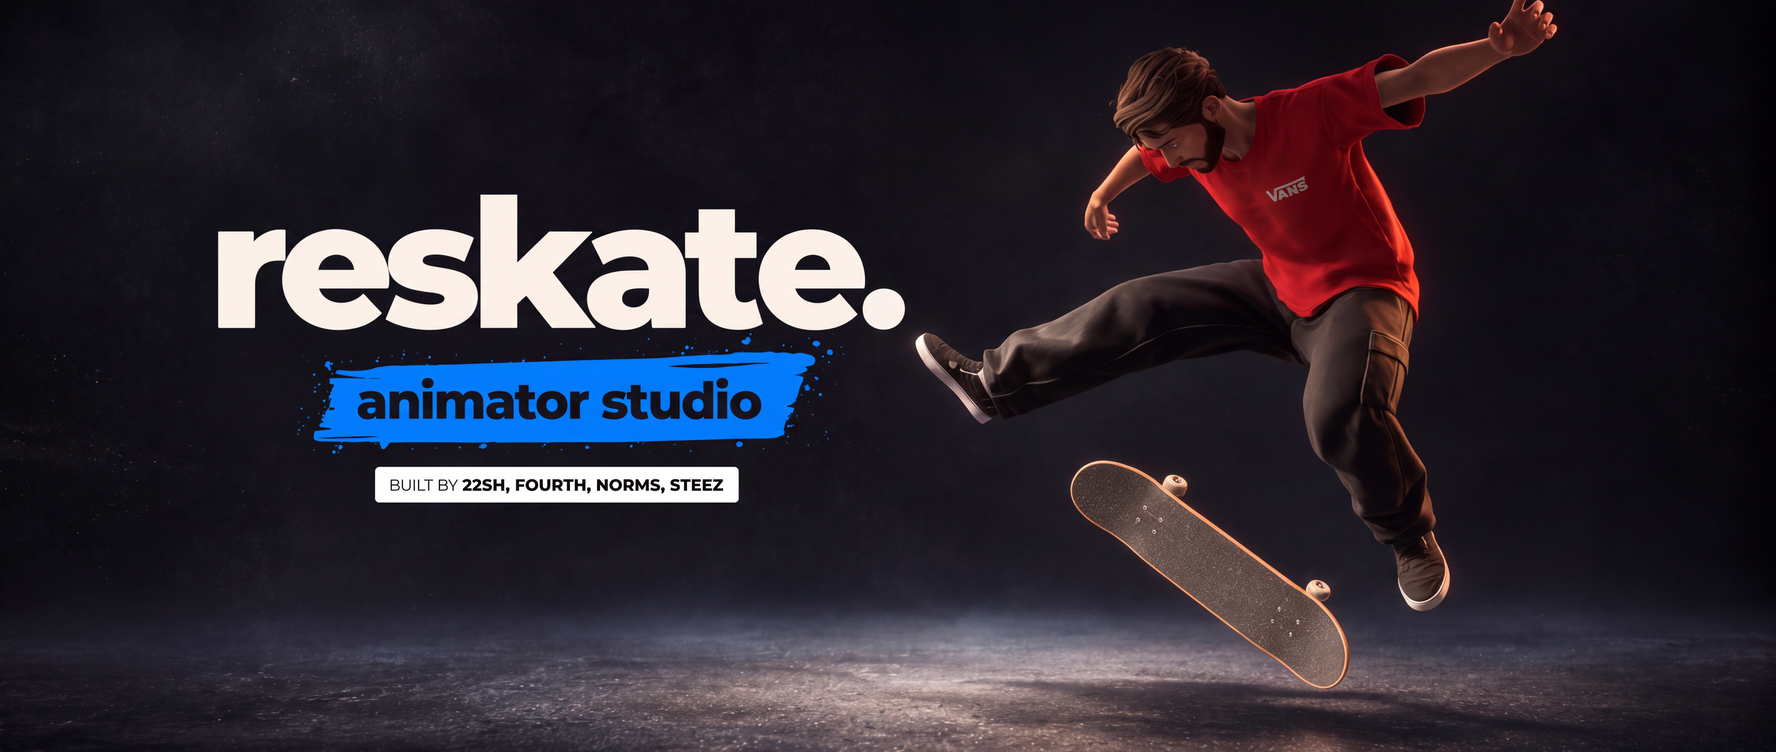
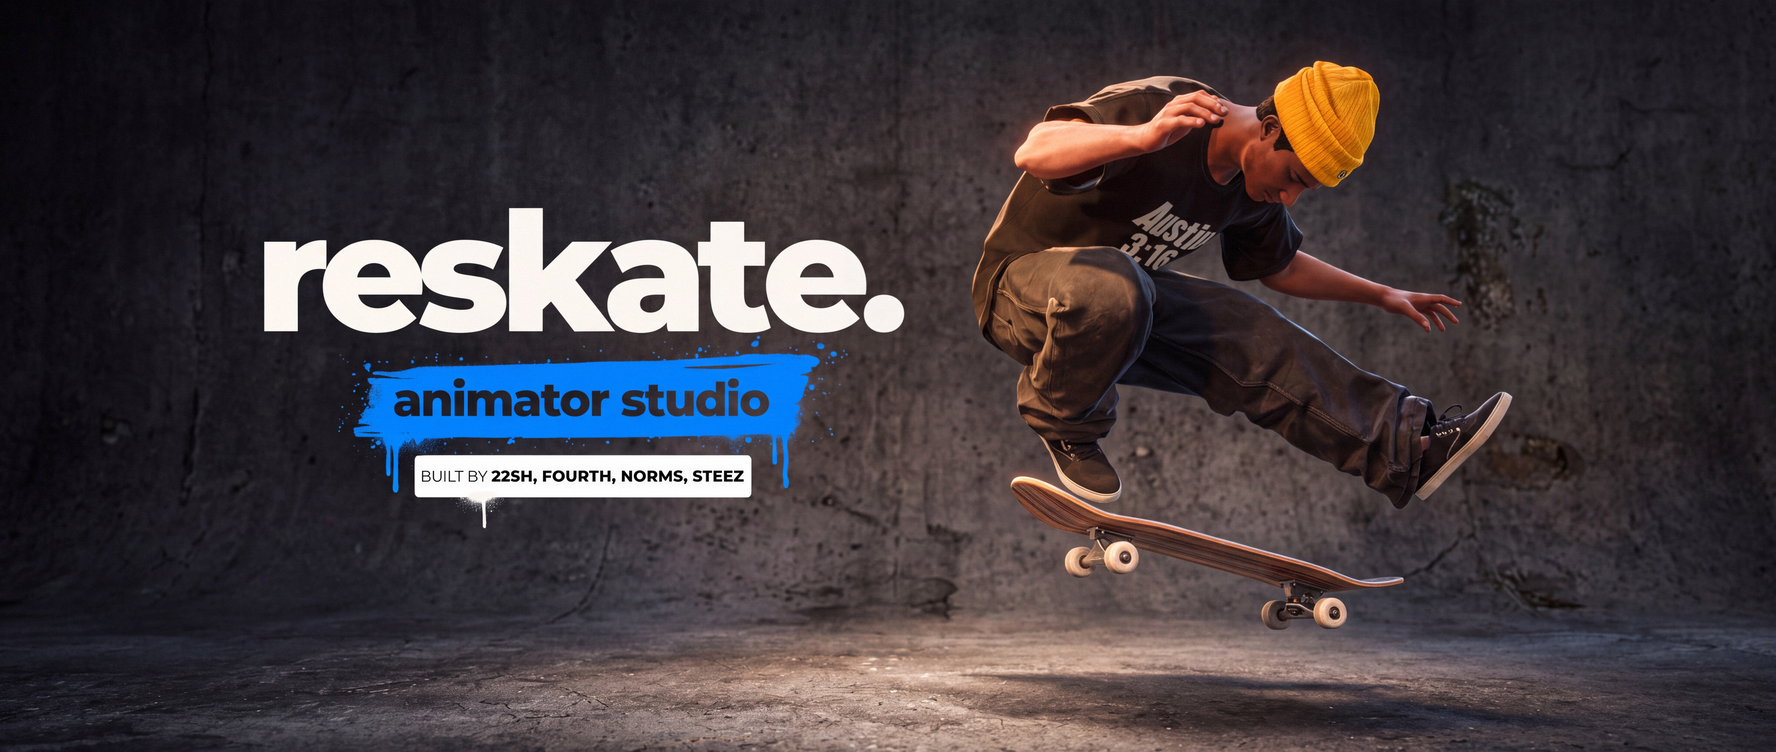
Animator Studio: fixes from the final review, and the new loading picture
- Select all keys leaves the brackets' own keys out, so a dragged selection
  moves again; a group of keys inside the brackets stays inside them.
- A channel's value box keeps the number asked for while it is dragged or
  typed (an angle read back from a turn can come out another way round past
  90 degrees), keys the frame the playhead is on, and takes its undo step on
  the first change. "Held by Joint limits" compares the turns themselves.
- Choosing from a channel row no longer scrolls the rows from under the mouse.
- A click near a bracket without dragging it no longer makes an empty undo
  step; a click takes the nearest key only when two are in reach.
- The numbered views (1-5, 0) stop the camera travelling with the skater.
- JOINTS finds the chosen joint's row for the keys and the pad too, so Enter
  (A) keys it after a tab switch or a joint chosen on the skater; the "Hide
  the menu" row is gone (Tab still hides it).
- Smoothing every joint does not count the brackets' own keys; pack import
  compares names the way Windows does; a failed save removes its half-written
  files.
- The built-in loading picture is the new "Animator Studio backdrop 2" art.

diff --git a/Extension/UI/Overlay/animation_studio_overlay.cpp b/Extension/UI/Overlay/animation_studio_overlay.cpp
@@ -59,6 +59,14 @@ struct Ui {
     std::vector<std::uint16_t> opened;
     std::uint16_t rows_reveal{0xffff};  // a joint just opened: the timeline scrolls to show its channels
     double held_said_until{};           // Joint limits holding an edit back was said until then
+    struct ChannelField {               // a channel's value box while it is dragged or typed into
+        std::uint16_t joint{0xffff};
+        int channel{-1};
+        bool active{}, began{};
+        float value{};                  // the number asked for (an angle read back can come out another way)
+        studio::Offset base;            // the edit it started from
+    } channel_field;
+    bool bracket_began{};               // the held bracket has moved: its undo step is taken
     std::uint16_t channel_joint{0xffff};
     int channel{-1};                    // the channel row chosen last (-1 none)
     struct ChannelDrag {
@@ -181,19 +189,27 @@ bool is_picked(std::uint16_t joint, float time) {
 void pick_all(const studio::View& v) {
     auto& u = ui();
     u.picked.clear();
+    // The keys a bracket puts on every joint are the brackets' own: they are not chosen (as a box leaves them).
+    const float end = v.bracket_end < 0 ? v.duration : v.bracket_end;
     for (const auto& t : v.tracks)
         if (!t.locked)
-            for (const auto& key : t.keys) u.picked.emplace_back(t.joint, key.time);
+            for (const auto& key : t.keys)
+                if (std::abs(key.time - v.bracket_start) >= 0.5f / fps && std::abs(key.time - end) >= 0.5f / fps)
+                    u.picked.emplace_back(t.joint, key.time);
     say(u.picked.empty() ? "There are no keys yet." : std::to_string(u.picked.size()) + " keys chosen: drag one to move them all, Delete takes them off.");
 }
 // The chosen keys moved by `by` seconds, as one undo step: the far end first, so none lands on another.
-void move_picked(float by, float duration) {
+void move_picked(float by, const studio::View& v) {
     auto& u = ui();
     if (u.picked.empty()) return;
-    // The group moves as one and stops at the ends of the clip, so no key is pushed onto another there.
+    // The group moves as one. Inside the brackets it stays inside them (a key never lands on a bracket's own
+    // key), outside them it stops at the ends of the clip.
     float first = u.picked.front().second, last = first;
     for (const auto& [joint, time] : u.picked) first = std::min(first, time), last = std::max(last, time);
-    by = std::clamp(by, -first, std::max(0.0f, duration - last));
+    const float end = v.bracket_end < 0 ? v.duration : v.bracket_end;
+    const float low = first > v.bracket_start + 0.5f / fps ? v.bracket_start + 1 / fps : 0.0f;
+    const float high = last < end - 0.5f / fps ? end - 1 / fps : v.duration;
+    by = std::clamp(by, std::min(0.0f, low - first), std::max(0.0f, high - last));
     if (std::abs(by) < 1e-4f) return;
     auto keys = u.picked;
     std::sort(keys.begin(), keys.end(), [by](const auto& a, const auto& b) { return by > 0 ? a.second > b.second : a.second < b.second; });
@@ -308,11 +324,13 @@ bool channels_open(std::uint16_t joint) {
 }
 // A channel edit that Joint limits held back is said, once in a while, so a number that will not move is
 // explained rather than looking broken.
-void note_held(const studio::View& v, std::uint16_t joint, int channel, float wanted) {
+void note_held(const studio::View& v, std::uint16_t joint, const studio::Offset& requested) {
     if (!v.limits) return;
-    float apart = studio::channel_value(studio::offset_of(joint), channel) - wanted;
-    if (channel < 3) apart = std::remainder(apart, 360.0f);
-    if (std::abs(apart) <= (channel < 3 ? 0.5f : 0.002f)) return;
+    // The turns compared, not one angle read back from them (that can come out another way round).
+    const auto got = studio::offset_of(joint).rotation;
+    const float d = std::abs(got[0] * requested.rotation[0] + got[1] * requested.rotation[1] + got[2] * requested.rotation[2] +
+                             got[3] * requested.rotation[3]);
+    if (2 * std::acos(std::clamp(d, 0.0f, 1.0f)) * 57.29578f <= 0.5f) return;
     auto& u = ui();
     if (ImGui::GetTime() < u.held_said_until) return;
     u.held_said_until = ImGui::GetTime() + 4;
@@ -1184,6 +1202,18 @@ Row info_row(std::string label, std::string value, std::string about) {
 }
 // What can be chosen in a list: anything but a heading.
 bool selectable(const Row& row) noexcept { return static_cast<bool>(row.act) || row.info; }
+// JOINTS: the highlight follows the chosen joint - on a joint's row, or when a joint was chosen elsewhere (a
+// dot on the skater, the timeline) - and stays on an option row otherwise. Used by the list, the keys and the pad.
+int joints_row(const std::vector<Row>& rows) {
+    auto& u = ui();
+    const bool joint_changed = u.joint_row_for != u.selected;
+    u.joint_row_for = u.selected;
+    const bool on_joint = u.row < 0 || u.row >= static_cast<int>(rows.size()) || rows[static_cast<std::size_t>(u.row)].joint;
+    if (on_joint || joint_changed)
+        for (std::size_t i = 0; i < rows.size(); ++i)
+            if (rows[i].joint && *rows[i].joint == u.selected) return static_cast<int>(i);
+    return u.row;
+}
 // ---- the shots ------------------------------------------------------------------------------------
 // Set camera angles to work in, the ones a skate part is actually shot from. Each is the orbit the studio
 // already drives - turned and tilted about the skater, at a distance - and what it holds in the middle, so
@@ -1807,8 +1837,6 @@ std::vector<Row> rows_of(Tab tab, const studio::View& v) {
         rows.push_back({"Hide everything", "", "Takes the whole studio off the screen - tabs, timeline, dots and all - leaving the "
                         "skater and the room, for filming a trick or taking a picture of it. Key: H brings it back.",
                         [] { ui().hide_ui = true; say("Hidden. H brings it back."); }});
-        rows.push_back({"Hide the menu", "", "Takes this menu away to give the skater more room; the timeline stays. Key: Tab "
-                        "brings it back.", [] { ui().menu_hidden = true; say("Menu hidden. Tab brings it back."); }});
         rows.push_back({"Stance", v.stance_choice != 0 ? (v.stance_choice == 1 ? "regular" : "goofy")
                                   : v.game_stance == 0 ? (v.showing_goofy ? "the game's (not set: goofy)" : "the game's (not set: regular)")
                                   : v.showing_goofy ? "the game's (goofy)" : "the game's (regular)",
@@ -1890,6 +1918,7 @@ void move_row(const studio::View& v, int delta) {
     auto& u = ui();
     const auto rows = rows_of(static_cast<Tab>(u.tab), v);
     const int count = static_cast<int>(rows.size());
+    if (static_cast<Tab>(u.tab) == Tab::joints) u.row = joints_row(rows);
     // Headings are stepped over. In JOINTS going onto a joint's row chooses that joint.
     int at = std::clamp(u.row, 0, std::max(0, count - 1));
     for (int step = 0; step < count; ++step) {
@@ -1903,6 +1932,7 @@ void move_row(const studio::View& v, int delta) {
 void activate_row(const studio::View& v) {
     auto& u = ui();
     auto rows = rows_of(static_cast<Tab>(u.tab), v);
+    if (static_cast<Tab>(u.tab) == Tab::joints) u.row = joints_row(rows);
     // On a joint's row, Enter (A) keys that joint on this frame.
     if (u.row >= 0 && u.row < static_cast<int>(rows.size()) && rows[static_cast<std::size_t>(u.row)].joint) {
         key_joint();
@@ -2125,17 +2155,7 @@ void list(ImDrawList* d, const Fonts& f, const studio::View& v, ImVec2 at, ImVec
     const float k = f.k, row_h = 50 * k, gap = 8 * k;
     const auto tab = static_cast<Tab>(u.tab);
     const auto rows = rows_of(tab, v);
-    int chosen = u.row;
-    if (tab == Tab::joints) {
-        // On the joints the highlight follows the chosen joint, and so does a joint chosen on the skater even
-        // when an option row was highlighted.
-        const bool joint_changed = u.joint_row_for != u.selected;
-        u.joint_row_for = u.selected;
-        const bool on_joint = u.row < 0 || u.row >= static_cast<int>(rows.size()) || rows[static_cast<std::size_t>(u.row)].joint;
-        if (on_joint || joint_changed)
-            for (std::size_t i = 0; i < rows.size(); ++i)
-                if (rows[i].joint && *rows[i].joint == u.selected) chosen = static_cast<int>(i);
-    }
+    int chosen = tab == Tab::joints ? joints_row(rows) : u.row;
     chosen = std::clamp(chosen, 0, std::max(0, static_cast<int>(rows.size()) - 1));
     // A heading cannot be chosen: the first row under it that does something is.
     if (!rows.empty() && !selectable(rows[static_cast<std::size_t>(chosen)]))
@@ -2593,7 +2613,10 @@ void timeline(ImDrawList* d, const Fonts& f, const studio::View& v, ImVec2 at, I
             if (track) for (const auto& kv : track->keys) curve.keys.push_back({kv.time, kv.rotation, kv.offset, kv.ease});
             // Its value on this frame, to drag or type (a double-click types).
             {
-                float value = studio::channel_value(studio::evaluate(curve, v.time), c);
+                const float frame_time = std::round(v.time * fps) / fps; // the frame a change is keyed on
+                auto& field = u.channel_field;
+                const bool this_field = field.joint == joint.index && field.channel == c;
+                float value = this_field && field.active ? field.value : studio::channel_value(studio::evaluate(curve, frame_time), c);
                 ImGui::PushID(joint.index);
                 ImGui::PushID(100 + c);
                 ImGui::PushStyleColor(ImGuiCol_Text, locked ? faint : white);
@@ -2606,14 +2629,29 @@ void timeline(ImDrawList* d, const Fonts& f, const studio::View& v, ImVec2 at, I
                 ImGui::SetNextItemWidth(88 * k);
                 const bool changed = ImGui::DragFloat("##value", &value, turn ? 0.25f : 0.002f, 0, 0, turn ? "%.1f" : "%.3f");
                 if (ImGui::IsItemActivated() && !locked) {
-                    studio::begin_change();
+                    field = {};
+                    field.joint = joint.index;
+                    field.channel = c;
+                    field.active = true;
+                    field.base = studio::evaluate(curve, frame_time);
+                    field.value = value;
                     u.selected = joint.index;
+                    u.rows_followed = joint.index; // chosen here: the rows stay where they are
                     u.channel_joint = joint.index;
                     u.channel = c;
                 }
-                if (changed && !locked) {
-                    studio::set_offset(joint.index, studio::with_channel(studio::evaluate(curve, v.time), c, value));
-                    note_held(v, joint.index, c, value);
+                if (field.joint == joint.index && field.channel == c) {
+                    if (ImGui::IsItemActive()) field.value = value;
+                    else field.active = false;
+                    if (changed && !locked) {
+                        if (!field.began) { // one undo step, taken when it first changes something
+                            studio::begin_change();
+                            field.began = true;
+                        }
+                        const auto requested = studio::with_channel(field.base, c, value);
+                        studio::set_offset(joint.index, requested);
+                        note_held(v, joint.index, requested);
+                    }
                 }
                 ImGui::PopFont();
                 ImGui::PopStyleVar();
@@ -2630,6 +2668,16 @@ void timeline(ImDrawList* d, const Fonts& f, const studio::View& v, ImVec2 at, I
             ImGui::PopID();
             ImGui::PopID();
             bool on_key = false;
+            std::optional<float> nearest; // the key a click takes: the nearest in reach
+            if (lane_clicked && track) {
+                float reach = 8 * k;
+                for (const auto& key : track->keys)
+                    if (!bracket_key(key.time))
+                        if (const float apart = std::abs(ImGui::GetIO().MousePos.x - x_of(key.time)); apart < reach) {
+                            reach = apart;
+                            nearest = key.time;
+                        }
+            }
             if (!curve.keys.empty()) {
                 d->PushClipRect(ImVec2(ruler_left, std::max(rows_top, y)), ImVec2(ruler_right, std::min(at.y + size.y, y + ch_h)), true);
                 // The curve, sampled across the lane; angles unwrapped so a turn past 180 does not jump.
@@ -2679,7 +2727,7 @@ void timeline(ImDrawList* d, const Fonts& f, const studio::View& v, ImVec2 at, I
                     drawn_keys().push_back({joint.index, key.time, cpos});
                     if ((current && focused) || in_pick) key_mark(d, cpos, 9 * k, in_pick ? blue : blue_dim, round_key(key));
                     key_mark(d, cpos, (close_to ? 7.5f : 6) * k, track->hidden ? faint : in_pick || (current && focused) ? blue_light : white, round_key(key));
-                    if (!close_to || !lane_clicked || locked) continue;
+                    if (!lane_clicked || locked || !nearest || std::abs(key.time - *nearest) > 1e-4f) continue;
                     on_key = true;
                     if (ImGui::GetIO().KeyShift) {
                         auto& picked = u.picked;
@@ -2702,6 +2750,7 @@ void timeline(ImDrawList* d, const Fonts& f, const studio::View& v, ImVec2 at, I
                     // A press: this key's value can be dragged up and down, or the key moved sideways in time.
                     if (!in_pick) u.picked.clear();
                     u.selected = joint.index;
+                    u.rows_followed = joint.index;
                     u.channel_joint = joint.index;
                     u.channel = c;
                     studio::set_time(key.time);
@@ -2720,6 +2769,7 @@ void timeline(ImDrawList* d, const Fonts& f, const studio::View& v, ImVec2 at, I
             if (lane_clicked && !on_key && v.has_clip) {
                 u.picked.clear();
                 u.selected = joint.index;
+                u.rows_followed = joint.index;
                 u.channel_joint = joint.index;
                 u.channel = c;
                 studio::set_time(std::round(t_of(ImGui::GetIO().MousePos.x) * fps) / fps);
@@ -2758,6 +2808,16 @@ void timeline(ImDrawList* d, const Fonts& f, const studio::View& v, ImVec2 at, I
         const bool lane_hovered = ImGui::IsItemHovered();
         const bool lane_clicked = ImGui::IsItemClicked(ImGuiMouseButton_Left);
         bool on_key = false;
+        std::optional<float> nearest; // the key a click takes: the nearest in reach
+        if (lane_clicked && track) {
+            float reach = 9 * k;
+            for (const auto& key : track->keys)
+                if (!bracket_key(key.time))
+                    if (const float apart = std::abs(ImGui::GetIO().MousePos.x - x_of(key.time)); apart < reach) {
+                        reach = apart;
+                        nearest = key.time;
+                    }
+        }
         if (track) {
             d->PushClipRect(ImVec2(ruler_left, rows_top), ImVec2(ruler_right, at.y + size.y), true);
             for (const auto& key : track->keys) {
@@ -2769,12 +2829,13 @@ void timeline(ImDrawList* d, const Fonts& f, const studio::View& v, ImVec2 at, I
                 const bool current = std::abs(key.time - v.time) < 0.5f / fps;
                 const bool close_to = lane_hovered && std::abs(ImGui::GetIO().MousePos.x - c.x) < 9 * k;
                 const bool in_pick = is_picked(joint.index, key.time);
+                const bool hit = lane_clicked && nearest && std::abs(key.time - *nearest) < 1e-4f;
                 drawn_keys().push_back({joint.index, key.time, c});
                 if ((current && chosen) || in_pick) key_mark(d, c, 13 * k, in_pick ? blue : blue_dim, round_key(key));
                 key_mark(d, c, (close_to ? 10.5f : 9) * k, track->hidden ? faint : in_pick || (current && chosen) ? blue_light : white,
                          round_key(key));
                 if (key.ease == studio::Ease::step) d->AddLine(ImVec2(c.x, c.y - 4 * k), ImVec2(c.x, c.y + 4 * k), IM_COL32(40, 40, 40, 255), 2 * k);
-                if (close_to && lane_clicked && !track->locked && ImGui::GetIO().KeyShift) {
+                if (hit && !track->locked && ImGui::GetIO().KeyShift) {
                     on_key = true;
                     auto& picked = u.picked;
                     const auto found = std::find_if(picked.begin(), picked.end(), [&](const auto& p) {
@@ -2782,7 +2843,7 @@ void timeline(ImDrawList* d, const Fonts& f, const studio::View& v, ImVec2 at, I
                     });
                     if (found != picked.end()) picked.erase(found);
                     else picked.emplace_back(joint.index, key.time);
-                } else if (close_to && lane_clicked && !track->locked && ImGui::IsMouseDoubleClicked(ImGuiMouseButton_Left)) {
+                } else if (hit && !track->locked && ImGui::IsMouseDoubleClicked(ImGuiMouseButton_Left)) {
                     // Double-click: the key (or the chosen group it is in) is smoothed and shows round.
                     on_key = true;
                     studio::begin_change();
@@ -2794,7 +2855,7 @@ void timeline(ImDrawList* d, const Fonts& f, const studio::View& v, ImVec2 at, I
                     }
                     say(m);
                     u.key_joint.reset(); // not a drag
-                } else if (close_to && lane_clicked && !track->locked) {
+                } else if (hit && !track->locked) {
                     on_key = true;
                     if (!in_pick) u.picked.clear();
                     u.key_joint = joint.index;
@@ -2848,9 +2909,9 @@ void timeline(ImDrawList* d, const Fonts& f, const studio::View& v, ImVec2 at, I
                     drag.began = true;
                 }
                 const float per_pixel = (drag.channel < 3 ? 0.25f : 0.0015f) * (io.KeyShift ? 0.2f : 1.0f);
-                const float wanted = drag.start - dy * per_pixel;
-                studio::set_offset(drag.joint, studio::with_channel(drag.base, drag.channel, wanted));
-                note_held(v, drag.joint, drag.channel, wanted);
+                const auto requested = studio::with_channel(drag.base, drag.channel, drag.start - dy * per_pixel);
+                studio::set_offset(drag.joint, requested);
+                note_held(v, drag.joint, requested);
             } else if (drag.mode == 2) {
                 u.key_joint = drag.joint;
                 u.key_from = drag.time;
@@ -2867,7 +2928,7 @@ void timeline(ImDrawList* d, const Fonts& f, const studio::View& v, ImVec2 at, I
             u.key_to = to;
         } else {
             if (u.key_moved && std::abs(u.key_to - u.key_from) > 1e-4f) {
-                if (is_picked(*u.key_joint, u.key_from) && u.picked.size() > 1) move_picked(u.key_to - u.key_from, v.duration);
+                if (is_picked(*u.key_joint, u.key_from) && u.picked.size() > 1) move_picked(u.key_to - u.key_from, v);
                 else {
                     studio::begin_change();
                     studio::move_key(*u.key_joint, u.key_from, u.key_to);
@@ -2960,13 +3021,17 @@ void timeline(ImDrawList* d, const Fonts& f, const studio::View& v, ImVec2 at, I
         // One drag of a bracket is one change to undo, and it only moves when it reaches another frame.
         if (near_bracket && ImGui::IsMouseClicked(ImGuiMouseButton_Left)) {
             u.bracket_drag = near_bracket;
-            u.bracket_dragged_to = -1;
-            studio::begin_change();
+            u.bracket_dragged_to = near_bracket == 1 ? v.bracket_start : v.bracket_end < 0 ? v.duration : v.bracket_end;
+            u.bracket_began = false;
         }
         if (u.bracket_drag && !ImGui::IsMouseDown(ImGuiMouseButton_Left)) u.bracket_drag = 0;
         if (u.bracket_drag) {
             const float to = std::round(t_of(io.MousePos.x) * fps) / fps;
             if (std::abs(to - u.bracket_dragged_to) > 0.5f / fps) {
+                if (!u.bracket_began) {
+                    studio::begin_change();
+                    u.bracket_began = true;
+                }
                 u.bracket_dragged_to = to;
                 studio::move_bracket(u.bracket_drag, to);
             }
@@ -3228,7 +3293,10 @@ void keyboard(const studio::View& v) {
     else set = false;
     if (set) {
         studio::set_orbit(orbit);
-        u.camera_shot = 0;
+        if (u.camera_shot) {
+            u.camera_shot = 0;
+            studio::set_camera_follow(false);
+        }
     }
     if (any || std::hypot(io.MousePos.x - u.last_mouse.x, io.MousePos.y - u.last_mouse.y) > 4 || ImGui::IsMouseClicked(ImGuiMouseButton_Left)) u.pad_mode = false;
     u.last_mouse = io.MousePos;

diff --git a/Extension/AnimationStudio/anim_studio.cpp b/Extension/AnimationStudio/anim_studio.cpp
@@ -4304,7 +4304,10 @@ void smooth_keys(std::uint16_t joint) {
     for (auto& t : s.edits.tracks) {
         if (t.locked || (joint != all_joints && t.joint != joint)) continue;
         // A key that only now shows round is a change too (it is saved with the animation).
-        auto n = static_cast<std::size_t>(std::count_if(t.keys.begin(), t.keys.end(), [](const Key& k) { return !k.smooth || k.ease != Ease::smooth; }));
+        auto n = static_cast<std::size_t>(std::count_if(t.keys.begin(), t.keys.end(), [&](const Key& k) {
+            const bool bracket = std::abs(k.time - s.edits.start) < 1.0f / 60 || std::abs(k.time - end) < 1.0f / 60;
+            return !bracket && (!k.smooth || k.ease != Ease::smooth);
+        }));
         n += anim_studio::smooth_track(t, s.edits.start, end);
         for (auto& k : t.keys) { k.ease = Ease::smooth; k.smooth = true; } // a track too short to smooth still shows it
         if (n) {
@@ -4655,7 +4658,11 @@ bool import_packs(std::string& message) {
             if (!mz_zip_reader_init_mem(&zip, data.data(), data.size(), 0)) throw std::runtime_error("not a zip file");
             struct Closer { mz_zip_archive* z; ~Closer() { mz_zip_reader_end(z); } } closer{&zip};
             // Read it all first; nothing is written unless every file in it checks out.
-            std::map<std::string, std::pair<std::string, std::string>> found; // animation -> json, clip
+            // Names compared as Windows compares file names: "Kickflip" and "kickflip" are one folder.
+            struct NoCase {
+                bool operator()(const std::string& a, const std::string& b) const { return _stricmp(a.c_str(), b.c_str()) < 0; }
+            };
+            std::map<std::string, std::pair<std::string, std::string>, NoCase> found; // animation -> json, clip
             std::vector<std::pair<std::string, std::string>> pack_files;     // pack name -> json
             const auto count = mz_zip_reader_get_num_files(&zip);
             for (mz_uint i = 0; i < count; ++i) {
@@ -4692,8 +4699,8 @@ bool import_packs(std::string& message) {
             // that names it is told.
             // A name is taken by a saved animation, by one already given out in this zip, or by another of
             // the zip's own animations (its "Kickflip 2" is not free for a renamed "Kickflip").
-            std::map<std::string, std::string> rename;
-            std::set<std::string> claimed;
+            std::map<std::string, std::string, NoCase> rename;
+            std::set<std::string, NoCase> claimed;
             for (const auto& [name, pair] : found) {
                 std::string target = name;
                 for (unsigned n = 2;; ++n) {
@@ -4818,7 +4825,7 @@ bool save(std::string& message) {
         const auto json = to_json(full);
         const auto bytes = clip_bytes(*s.clip);
         // Both are written in full beside the old files first, and only then moved over them, the trick before
-        // its description: a failed save (a full disk) never leaves half an animation or a mismatched pair.
+        // its description: a failed write (a full disk) leaves the saved animation as it was.
         std::filesystem::create_directories(folder / name);
         const auto json_path = folder / name / (name + ".json"), clip_path = folder / name / (name + ".clip");
         const auto staged = [](std::filesystem::path p) { p += L".saving"; return p; };
@@ -4842,6 +4849,8 @@ bool save(std::string& message) {
         publish_locked(s);
         return true;
     } catch (const std::exception& e) {
+        std::error_code ignored;
+        for (const char* extension : {".json.saving", ".clip.saving"}) std::filesystem::remove(folder / name / (name + extension), ignored);
         message = std::string("Saving failed: ") + e.what();
         s.status = message;
         return false;
